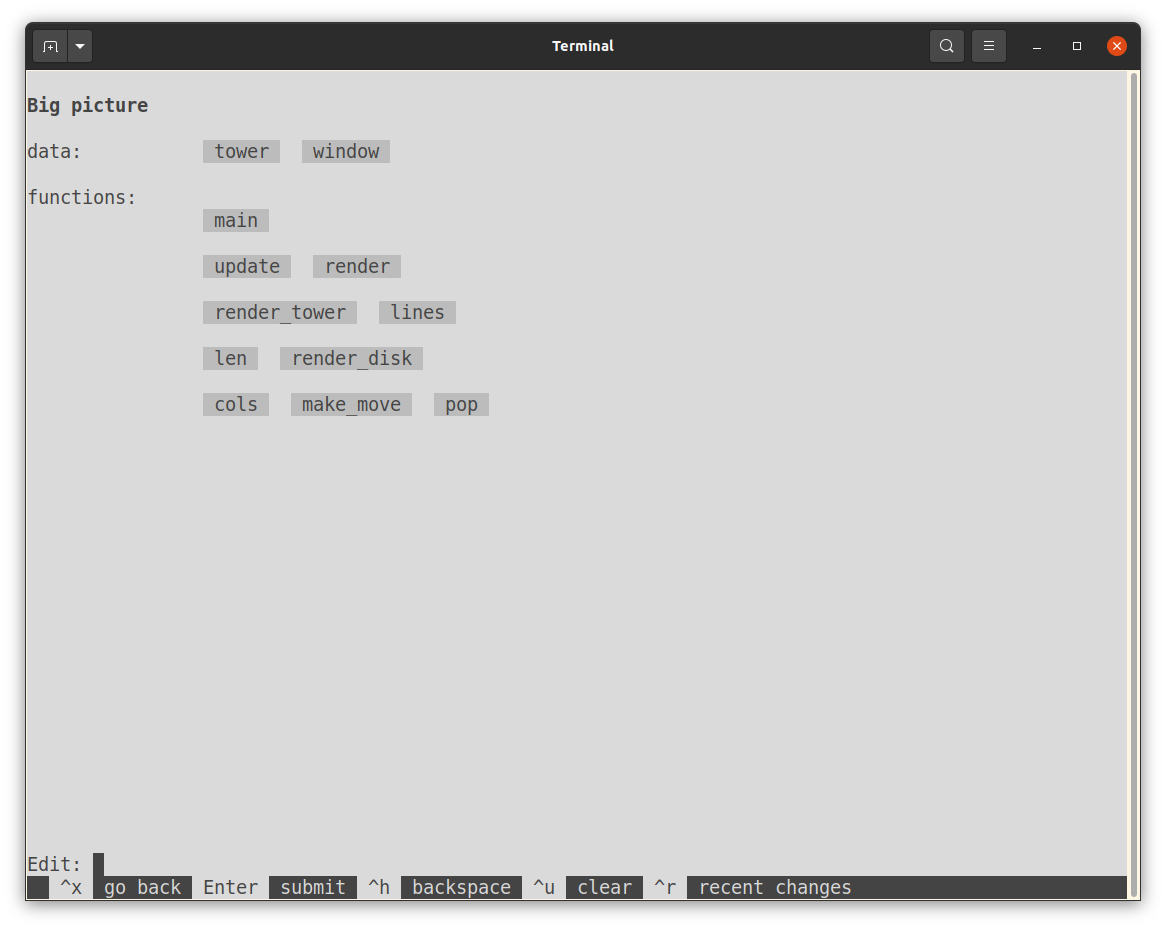
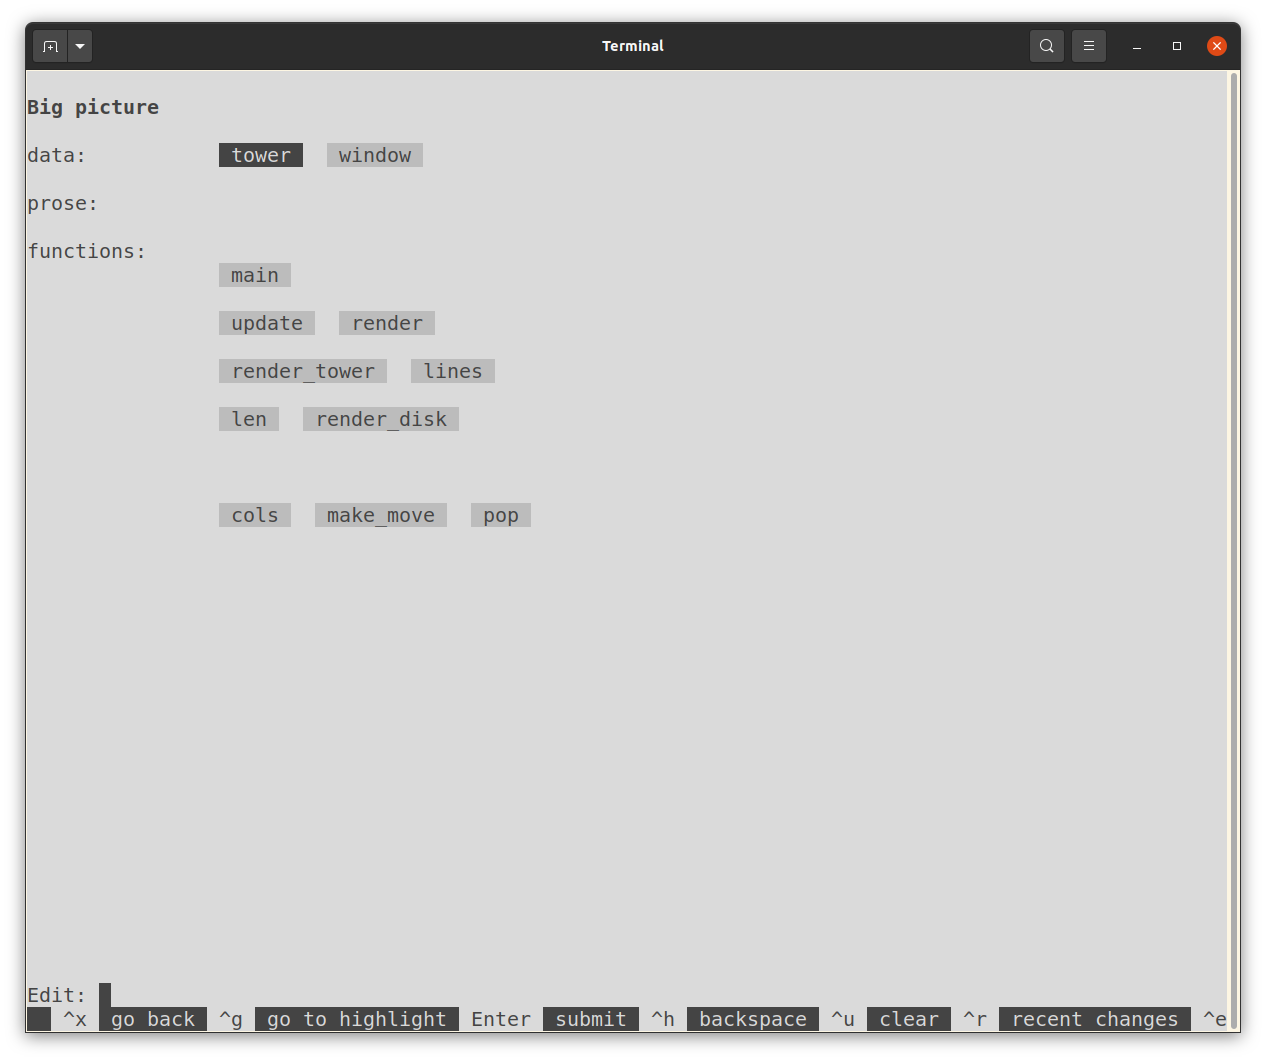
update keyboard shortcuts in screenshots and docs

Changed region(s): [[0.0, 0.0, 0.988, 0.9989], [0.1544, 0.2185, 0.4322, 0.4995], [0.1544, 0.1249, 0.3396, 0.1873]]

diff --git a/README.md b/README.md
@@ -28,7 +28,7 @@ src/teliva hanoi.tlv
 <img alt='screenshot of Teliva running the Towers of Hanoi' src='doc/hanoi.png'>
 
 No matter what app you run, you are always guaranteed access to a single
-obvious, consistent way (currently the hotkey `ctrl-e`) to inspect its
+obvious, consistent way (currently the hotkey `ctrl-u`) to inspect its
 sources.
 
 When you look under the hood of an app, the first thing you see is a
@@ -37,8 +37,8 @@ view of the app's code.
 
 <img alt='screenshot of big-picture view for the Towers of Hanoi' src='doc/hanoi-big-picture.png'>
 
-Select a definition, make a change, hit `ctrl-e` again, and the app will run
-with your updates. ([video](https://archive.org/details/akkartik-2021-11-14))
+Select a definition, make a change, hit `ctrl-x`, and the app will run with
+your updates. ([video](https://archive.org/details/akkartik-2021-11-14))
 
 You will need some Unix-like platform with a C compiler and the ncurses and
 openssl libraries. Some possible commands to install them, depending on your
